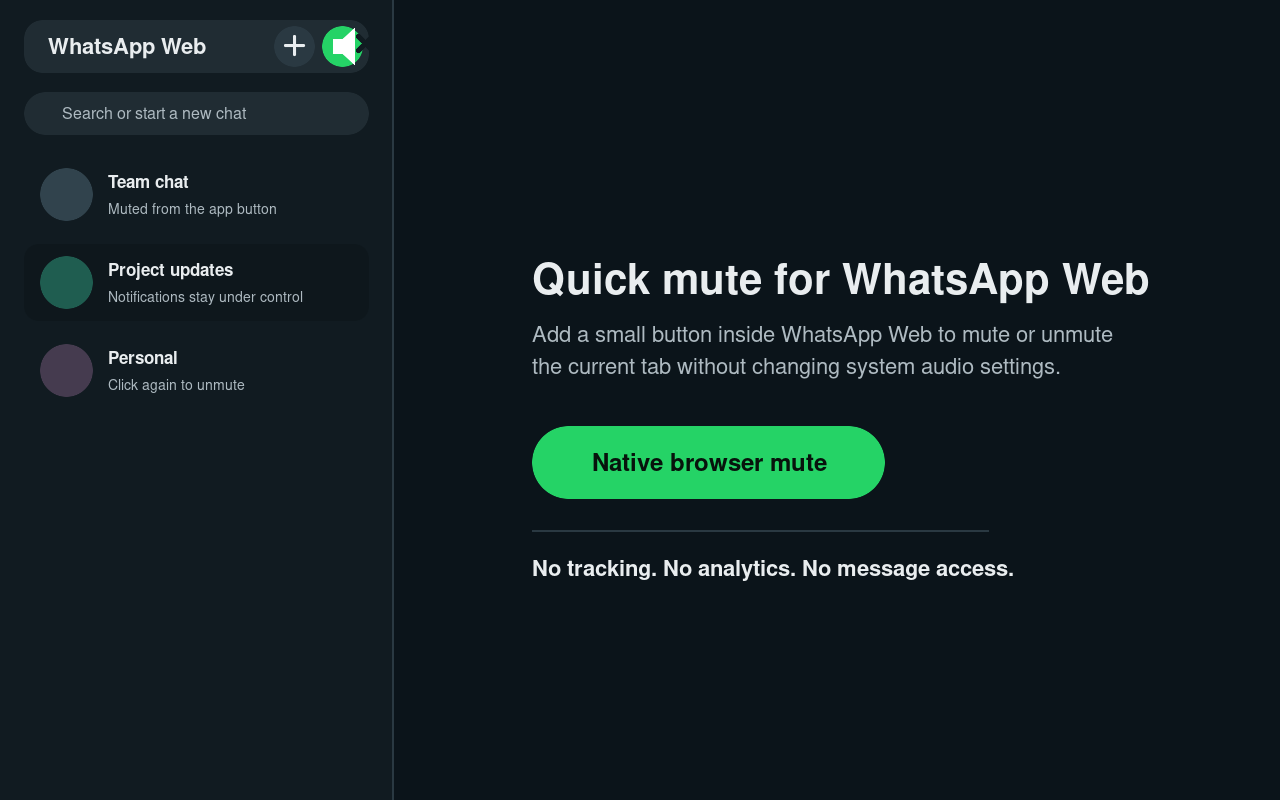
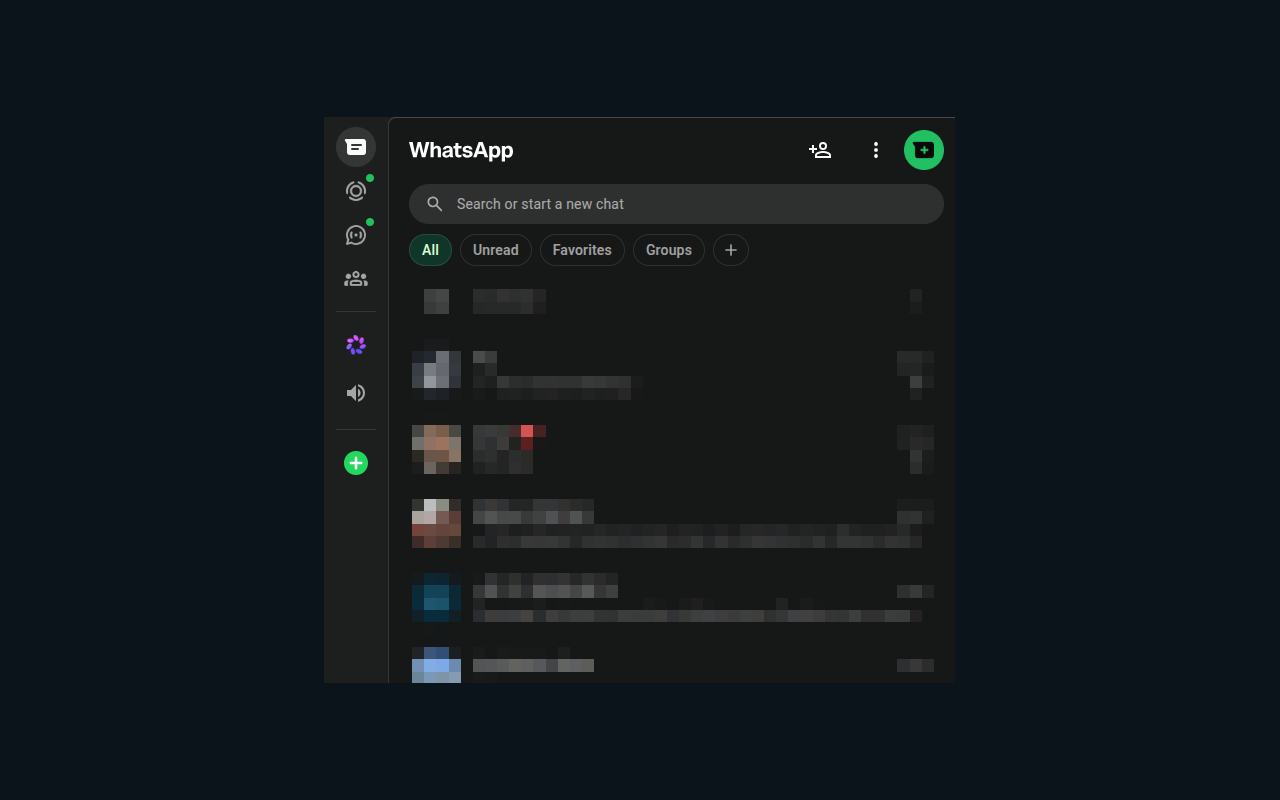
Update store screenshot assets

diff --git a/STORE_SUBMISSION.md b/STORE_SUBMISSION.md
@@ -72,11 +72,9 @@ Use `PRIVACY_POLICY.md` as the privacy policy text or publish that text at a pub
 
 `store-assets/screenshot-main-1280x800.png`
 
-### Promotional tiles
+Original source screenshot:
 
-`store-assets/promo-small-440x280.png`
-
-`store-assets/promo-large-1400x560.png`
+`store-assets/screenshot-main.png`
 
 ## Suggested support text
 
